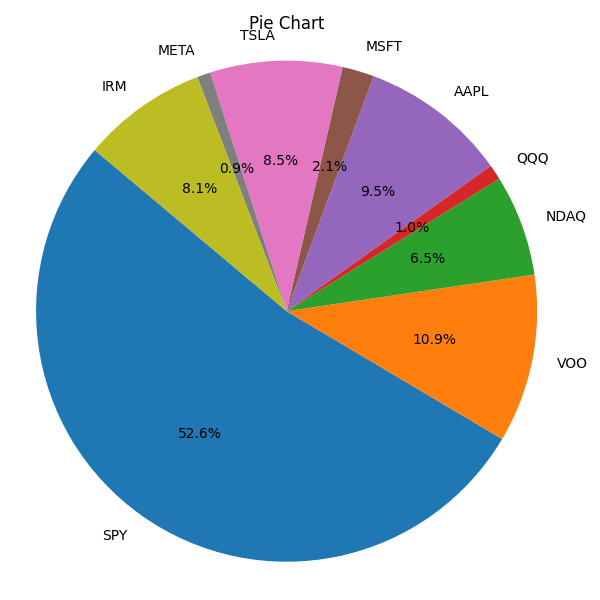
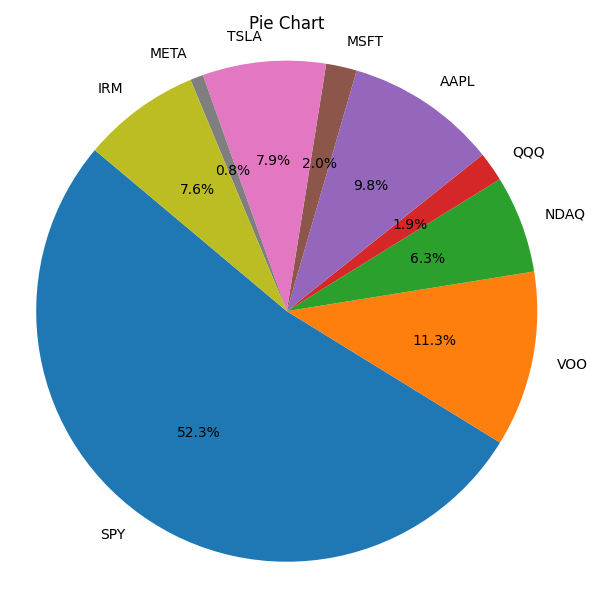
Further shortening the front end file and figuring out how to integrate the back end better

diff --git a/main.py b/main.py
@@ -1,6 +1,14 @@
 import yfinance as yf
 import csv
 import matplotlib.pyplot as plt
+import json
+
+from server import get_portfolio_summary
+
+def load_data_from_json(file_path):
+    with open(file_path, 'r') as json_file:
+        data = json.load(json_file)
+    return data
 
 def fetch_stock_data_to_csv(ticker, start_date, end_date, output_file):
     # Fetch stock data
@@ -35,6 +43,17 @@ def generate_pie_chart(data, labels):
     plt.tight_layout()  # Adjust layout to prevent labels from overlapping.
     
     # Save the plot to a file or directly show it.
-    plt.savefig('static/pie_chart.png')  # Save the plot as a file.
+    plt.savefig('static\pie_chart.png')  # Save the plot as a file.
     # plt.show()  # Directly show the plot (use this if you want to display it in the Flask app).
     plt.close()
+
+data = load_data_from_json('data.json')
+tickers = data['tickers']
+amounts = data['amount']
+
+portfolio = {label: value for label, value in zip(tickers, amounts)}
+
+summary = get_portfolio_summary(portfolio)
+adjusted_contribution = summary.get('Adjusted_contribution')
+
+generate_pie_chart(adjusted_contribution, tickers)

diff --git a/server.py b/server.py
@@ -38,18 +38,14 @@ app = Flask(__name__)
 def home():
     data = load_data_from_json('data.json')
 
-    # ---------This should be done outside the main loop----------------
     tickers = data['tickers']
     amounts = data['amount']
 
-    
     portfolio = {label: value for label, value in zip(tickers, amounts)}
-    # ------------------------------------------------------------------
 
     summary = get_portfolio_summary(portfolio)
     total_value = summary.get('Total Value')
-    adjusted_contribution = summary.get('Adjusted_contribution')
-    
+
     today = date.today().strftime("%b-%d-%Y")
     return render_template("index.html", spy=total_value, current_date=today)
 
